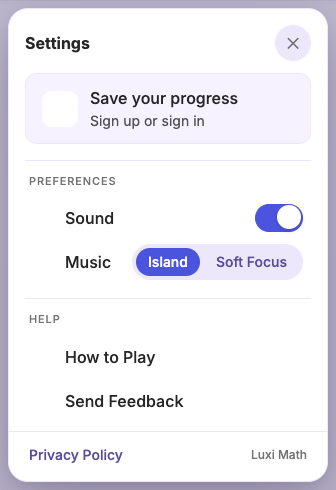
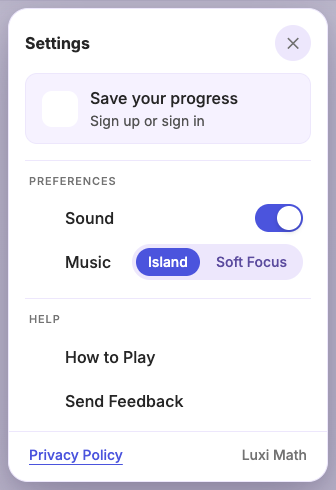
Settings: toggle option A, footer type, Sign out = ghost, Privacy = link
- Sound toggle OFF -> solid neutral-500 track + white knob (Amy's pick,
  option A; 4.74:1 both), replacing the outline version.
- Luxi Math 12/500 -> 14/500, matching Privacy Policy.
- Sign out = Datum Button ghost (md): Iris 600, hover Lilac 100,
  pressed Iris 200 + Iris 800, scale .97.
- Privacy Policy = Datum Button link (it opens another page): underlined
  Iris 600, hover Iris 700 on Lilac 100, pressed Iris 800 on Lilac 200.
Audit: 160 checks, 0 fail (every state incl. hover/pressed/focus).

diff --git a/src/ui/Settings.jsx b/src/ui/Settings.jsx
@@ -189,7 +189,8 @@ export function SettingsSheet({ auth = {}, avatar = null, sound = true, onToggle
                       <span style={{ display: 'block', fontSize: 16, fontWeight: 500, color: TEXT }}>Signed in</span>
                       <span style={{ display: 'block', fontSize: 14, fontWeight: 400, color: TEXT2, whiteSpace: 'nowrap', overflow: 'hidden', textOverflow: 'ellipsis' }}>{auth.email || ''}</span>
                     </span>
-                    <button onClick={() => onSignOut?.()} style={{ border: 'none', background: 'transparent', color: IRIS, fontWeight: 500, fontSize: 14, cursor: 'pointer', padding: 8, borderRadius: 8, whiteSpace: 'nowrap' }}>
+                    {/* Datum Button ghost · md (colours + press live in index.css .luxiSet-ghost) */}
+                    <button onClick={() => onSignOut?.()} className="luxiSet-ghost" style={{ height: 32, padding: '0 10px', border: 'none', borderRadius: 4, fontWeight: 500, fontSize: 14, cursor: 'pointer', whiteSpace: 'nowrap' }}>
                       Sign out
                     </button>
                   </div>
@@ -211,12 +212,11 @@ export function SettingsSheet({ auth = {}, avatar = null, sound = true, onToggle
                     aria-checked={sound}
                     aria-label="Sound"
                     onClick={() => onToggleSound?.(!sound)}
-                    style={{ width: 48, height: 28, borderRadius: 999, boxSizing: 'border-box', border: '1.5px solid ' + (sound ? IRIS : META), cursor: 'pointer', position: 'relative', padding: 0, transition: 'background .18s, border-color .18s', background: sound ? IRIS : LINE }}
+                    style={{ width: 48, height: 28, borderRadius: 999, border: 'none', cursor: 'pointer', position: 'relative', padding: 0, transition: 'background .18s', background: sound ? IRIS : META }}
                   >
-                    {/* OFF = Checkbox's unchecked rule (Amy 2026-10-04, option B): outline + knob in
-                        neutral-500, both ≥3:1 (WCAG 1.4.11) — OFF is unchecked, not disabled.
-                        ON = filled Iris, the knob grows to full white. Box is 45×25 inside the border. */}
-                    <span style={{ position: 'absolute', top: sound ? 0.5 : 4.5, left: sound ? 20.5 : 4.5, width: sound ? 24 : 16, height: sound ? 24 : 16, borderRadius: '50%', background: sound ? WHITE : META, boxShadow: sound ? '0 2px 5px rgba(0,0,0,.2)' : 'none', transition: 'all .18s' }} />
+                    {/* OFF = unchecked, not disabled, so it holds 3:1 (WCAG 1.4.11) — Amy 2026-10-05,
+                        option A: solid neutral-500 track (4.74 vs the sheet), white knob on it (4.74). */}
+                    <span style={{ position: 'absolute', top: 2, left: 2, width: 24, height: 24, borderRadius: '50%', background: WHITE, boxShadow: '0 2px 5px rgba(0,0,0,.2)', transition: 'transform .18s', transform: 'translateX(' + (sound ? '20px' : '0px') + ')' }} />
                   </button>
                 </div>
                 {/* Music picker (2026-10-04): Island = the default, Soft Focus = the
@@ -277,11 +277,13 @@ export function SettingsSheet({ auth = {}, avatar = null, sound = true, onToggle
                 </button>
               </div>
 
-              <div style={{ padding: '12px 20px 16px', display: 'flex', alignItems: 'center', justifyContent: 'space-between', borderTop: '1px solid ' + LINE }}>
-                <a href={privacyHref} target="_blank" rel="noopener noreferrer" style={{ fontSize: 14, fontWeight: 500, color: LILAC800 }}>
+              <div style={{ padding: '12px 20px 16px 16px', display: 'flex', alignItems: 'center', justifyContent: 'space-between', borderTop: '1px solid ' + LINE }}>
+                {/* Datum Button link — it opens another page (Datum: navigation = link). Its 4px
+                    padding is why the footer's left pad is 16: the text still lines up at 20. */}
+                <a href={privacyHref} target="_blank" rel="noopener noreferrer" className="luxiSet-link" style={{ fontSize: 14, fontWeight: 500, padding: '0 4px', borderRadius: 4 }}>
                   Privacy Policy
                 </a>
-                <span style={{ fontSize: 12, fontWeight: 500, color: META, whiteSpace: 'nowrap' }}>Luxi Math</span>
+                <span style={{ fontSize: 14, fontWeight: 500, color: META, whiteSpace: 'nowrap' }}>Luxi Math</span>
               </div>
             </div>
         </div>

diff --git a/src/index.css b/src/index.css
@@ -324,6 +324,19 @@ canvas { touch-action: none; display: block; }
 .luxiFb-notnow { transition: background .15s; }
 .luxiFb-notnow:hover { background: var(--brand-lilac-50); }
 
+/* Settings sheet buttons = Datum Button variants (button.tsx), values by token name.
+   ghost (Sign out): Iris 600 text · hover Lilac 100 · pressed Iris 200 + Iris 800 text · press scale .97.
+   link (Privacy Policy): underlined Iris 600 · hover Iris 700 on Lilac 100 · pressed Iris 800 on Lilac 200 ·
+   colour only, never scales (text under the finger shouldn't shrink). Hover/press in CSS — inline beats :hover. */
+.luxiSet-ghost { background: transparent; color: var(--brand-iris-600); transition: scale .1s cubic-bezier(.23,1,.32,1), color .15s, background-color .15s; }
+.luxiSet-ghost:hover { background: var(--brand-lilac-100); }
+.luxiSet-ghost:active { background: var(--brand-iris-200); color: var(--brand-iris-800); scale: .97; }
+.luxiSet-link { color: var(--brand-iris-600); text-decoration: underline; text-underline-offset: 4px; transition: color .15s, background-color .15s; }
+.luxiSet-link:hover { color: var(--brand-iris-700); background: var(--brand-lilac-100); }
+.luxiSet-link:active { color: var(--brand-iris-800); background: var(--brand-lilac-200); }
+.luxiSet-link:focus-visible { outline: 1px solid var(--brand-iris-800); outline-offset: 2px; }
+@media (prefers-reduced-motion: reduce) { .luxiSet-ghost:active { scale: none; } }
+
 /* House focus ring (contrast audit, 2026-10-04 — Amy's interaction-states rule):
    1px in Iris 700, 2px gap so it reads on Iris buttons too (WCAG 1.4.11).
    Scoped to the shared modal shell; the app-wide pass comes with later audits. */

diff --git a/a11y-reports/settings-sheet/report.md b/a11y-reports/settings-sheet/report.md
@@ -1,6 +1,6 @@
 # Contrast audit — SettingsSheet
 
-**Standard:** WCAG 2.2 AA · **Source:** `src/ui/Settings.jsx` · **Run:** 2026-10-05 00:33 UTC  
+**Standard:** WCAG 2.2 AA · **Source:** `src/ui/Settings.jsx` · **Run:** 2026-10-05 04:31 UTC  
 **Variants:** Guest · sound on, Guest · sound off, Signed in · **Phases:** open
 
 > **160 unique checks · 157 pass · 0 fail · 0 exempt (disabled) · 0 need review**
@@ -33,8 +33,8 @@ None — every check passes WCAG 2.2 AA. 🎉
 | HELP | `#737373` on `#FFFFFF` | 11px | 4.74:1 | 4.50:1 | ✅ | open |
 | How to Play | `#262626` on `#FFFFFF` | 16px | 15.13:1 | 4.50:1 | ✅ | open |
 | Send Feedback | `#262626` on `#FFFFFF` | 16px | 15.13:1 | 4.50:1 | ✅ | open |
-| Privacy Policy | `#5B4B9E` on `#FFFFFF` | 14px | 7.13:1 | 4.50:1 | ✅ | open |
-| Luxi Math | `#737373` on `#FFFFFF` | 12px | 4.74:1 | 4.50:1 | ✅ | open |
+| Privacy Policy | `#4B54DD` on `#FFFFFF` | 14px | 5.81:1 | 4.50:1 | ✅ | open |
+| Luxi Math | `#737373` on `#FFFFFF` | 14px | 4.74:1 | 4.50:1 | ✅ | open |
 
 ### Interactive elements — every state
 
@@ -47,7 +47,7 @@ None — every check passes WCAG 2.2 AA. 🎉
 | Soft Focus | ✅ 5.92:1 | ✅ 5.92:1 | ✅ 5.92:1 | ✅ 5.92:1 | ✅ 6.35:1 · 89% of edge | open |
 | How to Play | ✅ 15.13:1 | ✅ 15.13:1 | ✅ 15.13:1 | ✅ 15.13:1 | ✅ 7.65:1 · 98% of edge | open |
 | Send Feedback | ✅ 15.13:1 | ✅ 15.13:1 | ✅ 15.13:1 | ✅ 15.13:1 | ✅ 7.65:1 · 98% of edge | open |
-| Privacy Policy | ✅ 7.13:1 | ✅ 7.13:1 | ✅ 7.13:1 | ✅ 7.13:1 | ✅ 5.98:1 · 100% of edge | open |
+| Privacy Policy | ✅ 5.81:1 | ✅ 6.35:1 | ✅ 6.60:1 | ✅ 5.81:1 | ✅ 9.55:1 · 98% of edge | open |
 
 ## Guest · sound off
 
@@ -66,8 +66,8 @@ None — every check passes WCAG 2.2 AA. 🎉
 | HELP | `#737373` on `#FFFFFF` | 11px | 4.74:1 | 4.50:1 | ✅ | open |
 | How to Play | `#262626` on `#FFFFFF` | 16px | 15.13:1 | 4.50:1 | ✅ | open |
 | Send Feedback | `#262626` on `#FFFFFF` | 16px | 15.13:1 | 4.50:1 | ✅ | open |
-| Privacy Policy | `#5B4B9E` on `#FFFFFF` | 14px | 7.13:1 | 4.50:1 | ✅ | open |
-| Luxi Math | `#737373` on `#FFFFFF` | 12px | 4.74:1 | 4.50:1 | ✅ | open |
+| Privacy Policy | `#4B54DD` on `#FFFFFF` | 14px | 5.81:1 | 4.50:1 | ✅ | open |
+| Luxi Math | `#737373` on `#FFFFFF` | 14px | 4.74:1 | 4.50:1 | ✅ | open |
 
 ### Interactive elements — every state
 
@@ -80,7 +80,7 @@ None — every check passes WCAG 2.2 AA. 🎉
 | Soft Focus | ✅ 5.92:1 | ✅ 5.92:1 | ✅ 5.92:1 | ✅ 5.92:1 | ✅ 6.35:1 · 89% of edge | open |
 | How to Play | ✅ 15.13:1 | ✅ 15.13:1 | ✅ 15.13:1 | ✅ 15.13:1 | ✅ 7.65:1 · 98% of edge | open |
 | Send Feedback | ✅ 15.13:1 | ✅ 15.13:1 | ✅ 15.13:1 | ✅ 15.13:1 | ✅ 7.65:1 · 98% of edge | open |
-| Privacy Policy | ✅ 7.13:1 | ✅ 7.13:1 | ✅ 7.13:1 | ✅ 7.13:1 | ✅ 5.98:1 · 100% of edge | open |
+| Privacy Policy | ✅ 5.81:1 | ✅ 6.35:1 | ✅ 6.60:1 | ✅ 5.81:1 | ✅ 9.55:1 · 98% of edge | open |
 
 ## Signed in
 
@@ -100,8 +100,8 @@ None — every check passes WCAG 2.2 AA. 🎉
 | HELP | `#737373` on `#FFFFFF` | 11px | 4.74:1 | 4.50:1 | ✅ | open |
 | How to Play | `#262626` on `#FFFFFF` | 16px | 15.13:1 | 4.50:1 | ✅ | open |
 | Send Feedback | `#262626` on `#FFFFFF` | 16px | 15.13:1 | 4.50:1 | ✅ | open |
-| Privacy Policy | `#5B4B9E` on `#FFFFFF` | 14px | 7.13:1 | 4.50:1 | ✅ | open |
-| Luxi Math | `#737373` on `#FFFFFF` | 12px | 4.74:1 | 4.50:1 | ✅ | open |
+| Privacy Policy | `#4B54DD` on `#FFFFFF` | 14px | 5.81:1 | 4.50:1 | ✅ | open |
+| Luxi Math | `#737373` on `#FFFFFF` | 14px | 4.74:1 | 4.50:1 | ✅ | open |
 | I | `#FFFFFF` on `#6856B6` ᵖ | 16px bold | 5.84:1 | 4.50:1 | ✅ | open |
 
 ### Interactive elements — every state
@@ -109,13 +109,13 @@ None — every check passes WCAG 2.2 AA. 🎉
 | Element | Default | Hover | Pressed | Focus (text) | Focus indicator | Seen in |
 |---|---|---|---|---|---|---|
 | Close | ✅ 3.94:1 | ✅ 3.94:1 | ✅ 3.94:1 | ✅ 3.94:1 | ✅ 4.33:1 · 75% of edge | open |
-| Sign out | ✅ 5.27:1 | ✅ 5.27:1 | ✅ 5.27:1 | ✅ 5.27:1 | ✅ 6.95:1 · 98% of edge | open |
+| Sign out | ✅ 5.27:1 | ✅ 4.82:1 | ✅ 6.06:1 | ✅ 5.27:1 | ✅ 6.95:1 · 98% of edge | open |
 | Sound | — | — | — | — | ✅ 4.99:1 · 87% of edge | open |
 | Island | ✅ 5.81:1 | ✅ 5.81:1 | ✅ 5.81:1 | ✅ 5.81:1 | ✅ 5.61:1 · 85% of edge | open |
 | Soft Focus | ✅ 5.92:1 | ✅ 5.92:1 | ✅ 5.92:1 | ✅ 5.92:1 | ✅ 6.35:1 · 89% of edge | open |
 | How to Play | ✅ 15.13:1 | ✅ 15.13:1 | ✅ 15.13:1 | ✅ 15.13:1 | ✅ 7.65:1 · 98% of edge | open |
 | Send Feedback | ✅ 15.13:1 | ✅ 15.13:1 | ✅ 15.13:1 | ✅ 15.13:1 | ✅ 7.65:1 · 98% of edge | open |
-| Privacy Policy | ✅ 7.13:1 | ✅ 7.13:1 | ✅ 7.13:1 | ✅ 7.13:1 | ✅ 5.98:1 · 100% of edge | open |
+| Privacy Policy | ✅ 5.81:1 | ✅ 6.35:1 | ✅ 6.60:1 | ✅ 5.81:1 | ✅ 9.55:1 · 98% of edge | open |
 
 ---
 
